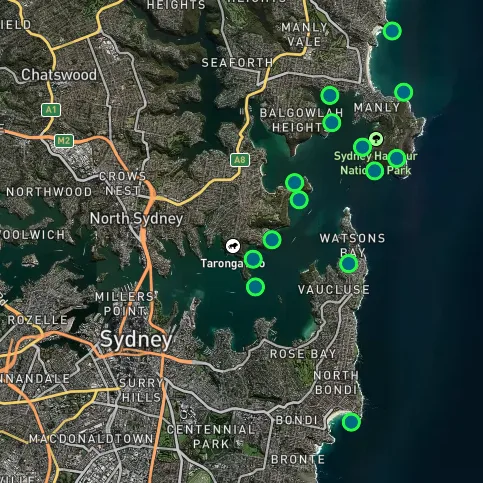
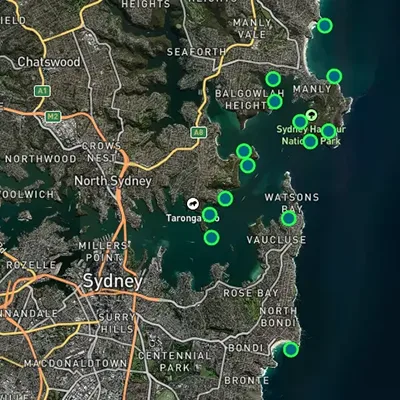
Image optimizations

diff --git a/resources/views/home.blade.php b/resources/views/home.blade.php
@@ -74,7 +74,7 @@
           $featuredPhoto = $featured->photos()->where('is_featured', true)->first();
           $heroImage = $featuredPhoto
               ? asset($featuredPhoto->image_path)
-              : asset('images/divesites/default.webp');
+              : asset('images/divesites/default-home.webp');
         @endphp
 
         <a href="{{ route('dive-sites.show', $featured) }}"
@@ -189,26 +189,17 @@
         </div>
       @endif
 
-      {{-- Quick Action: Dive Map (desktop LCP prioritized) --}}
+      {{-- Quick Action: Dive Map (optimized for LCP) --}}
       <a href="{{ route('dive-sites.index') }}"
         class="group relative overflow-hidden rounded-2xl border border-white/10 bg-slate-900/60 ring-1 ring-white/10 shadow-xl hover:scale-[1.01] transition
                 min-h-[220px] sm:min-h-[260px]">
 
-        <picture>
-          <!-- Desktop: fetchpriority=high -->
-          <source
-            srcset="{{ asset('images/main/satellite.webp') }}"
-            media="(min-width: 1024px)"
-            fetchpriority="high"
-            type="image/webp">
-          <!-- Mobile fallback -->
-          <img
-            src="{{ asset('images/main/satellite.webp') }}"
-            alt="Dive map preview background"
-            class="absolute inset-0 w-full h-full object-cover transition group-hover:scale-105"
-            loading="lazy"
-            decoding="async">
-        </picture>
+        <img
+          src="{{ asset('images/main/satellite.webp') }}"
+          alt="Dive map preview background"
+          class="absolute inset-0 w-full h-full object-cover transition group-hover:scale-105"
+          fetchpriority="high"
+          decoding="async">
 
         <!-- Compact bottom overlay -->
         <div class="absolute inset-x-0 bottom-0 bg-slate-900/85 backdrop-blur-sm px-4 py-3 sm:px-5 sm:py-4">
